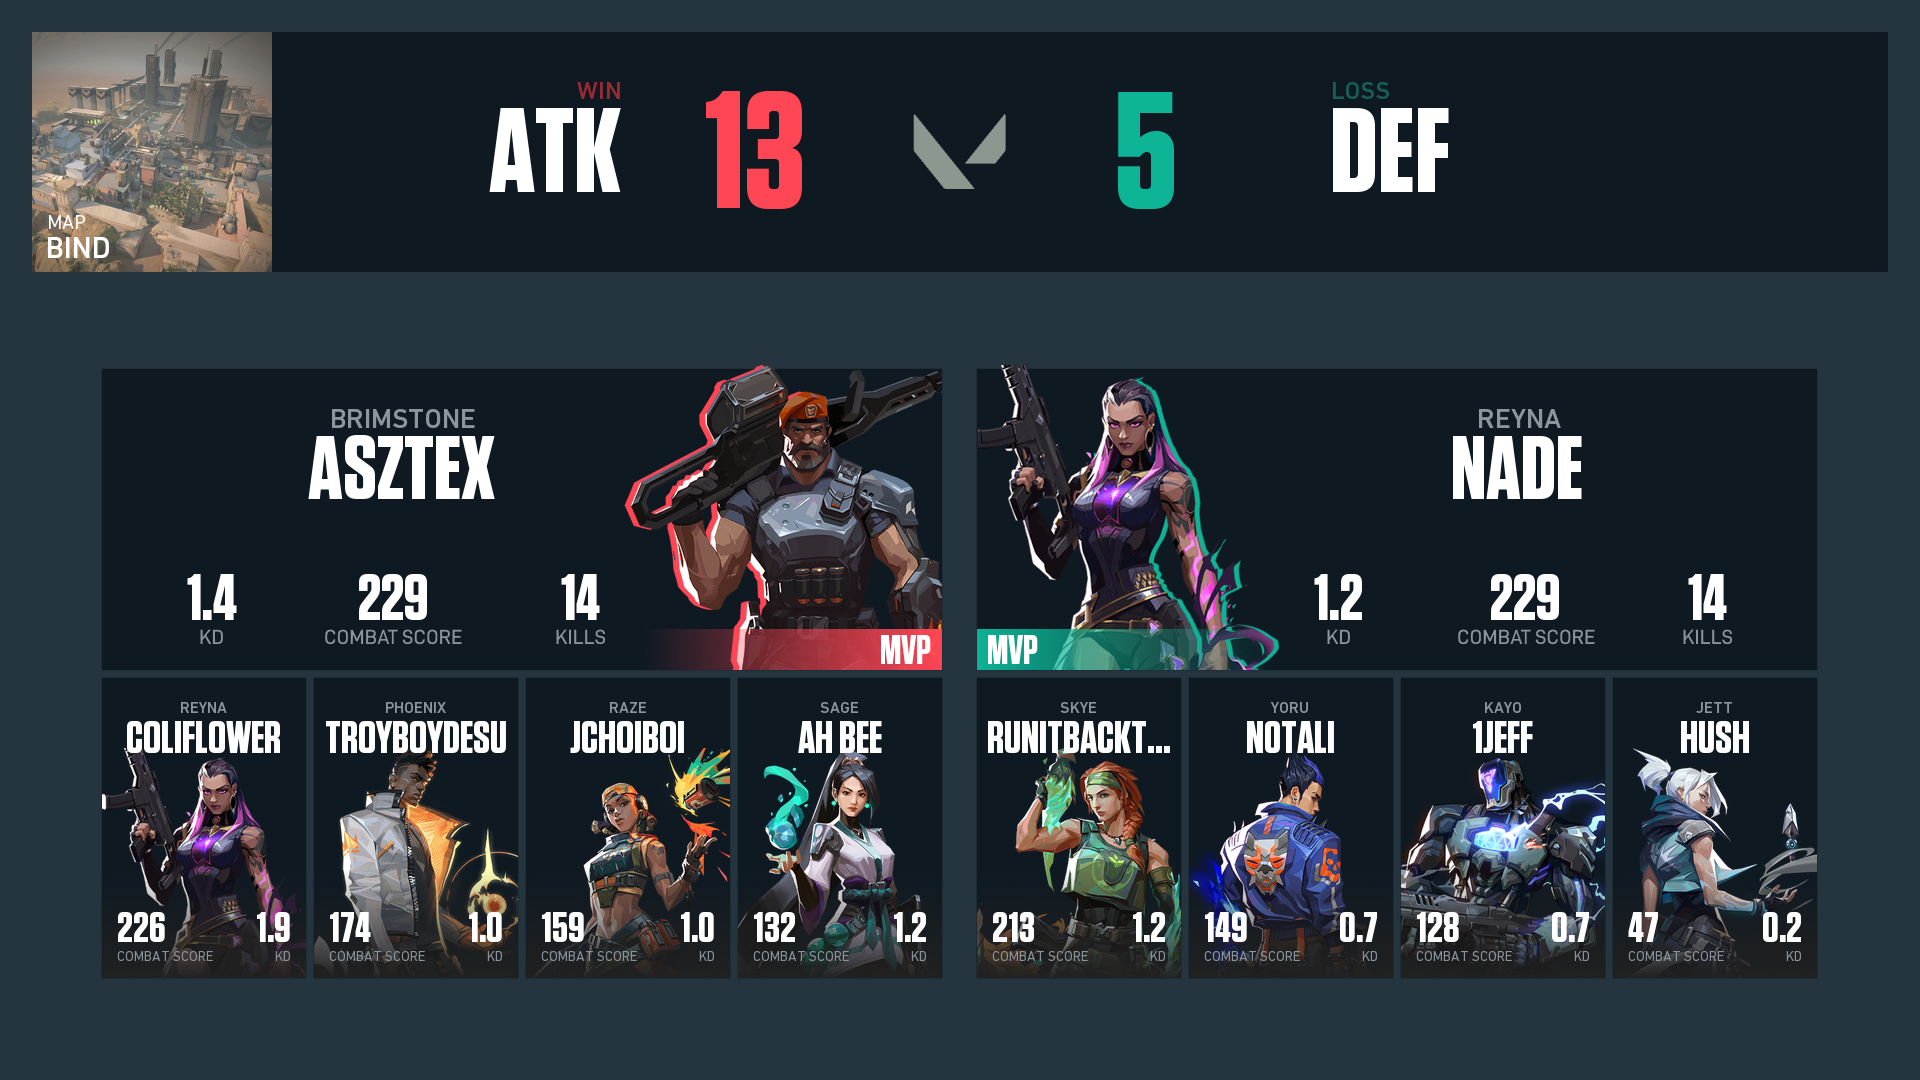
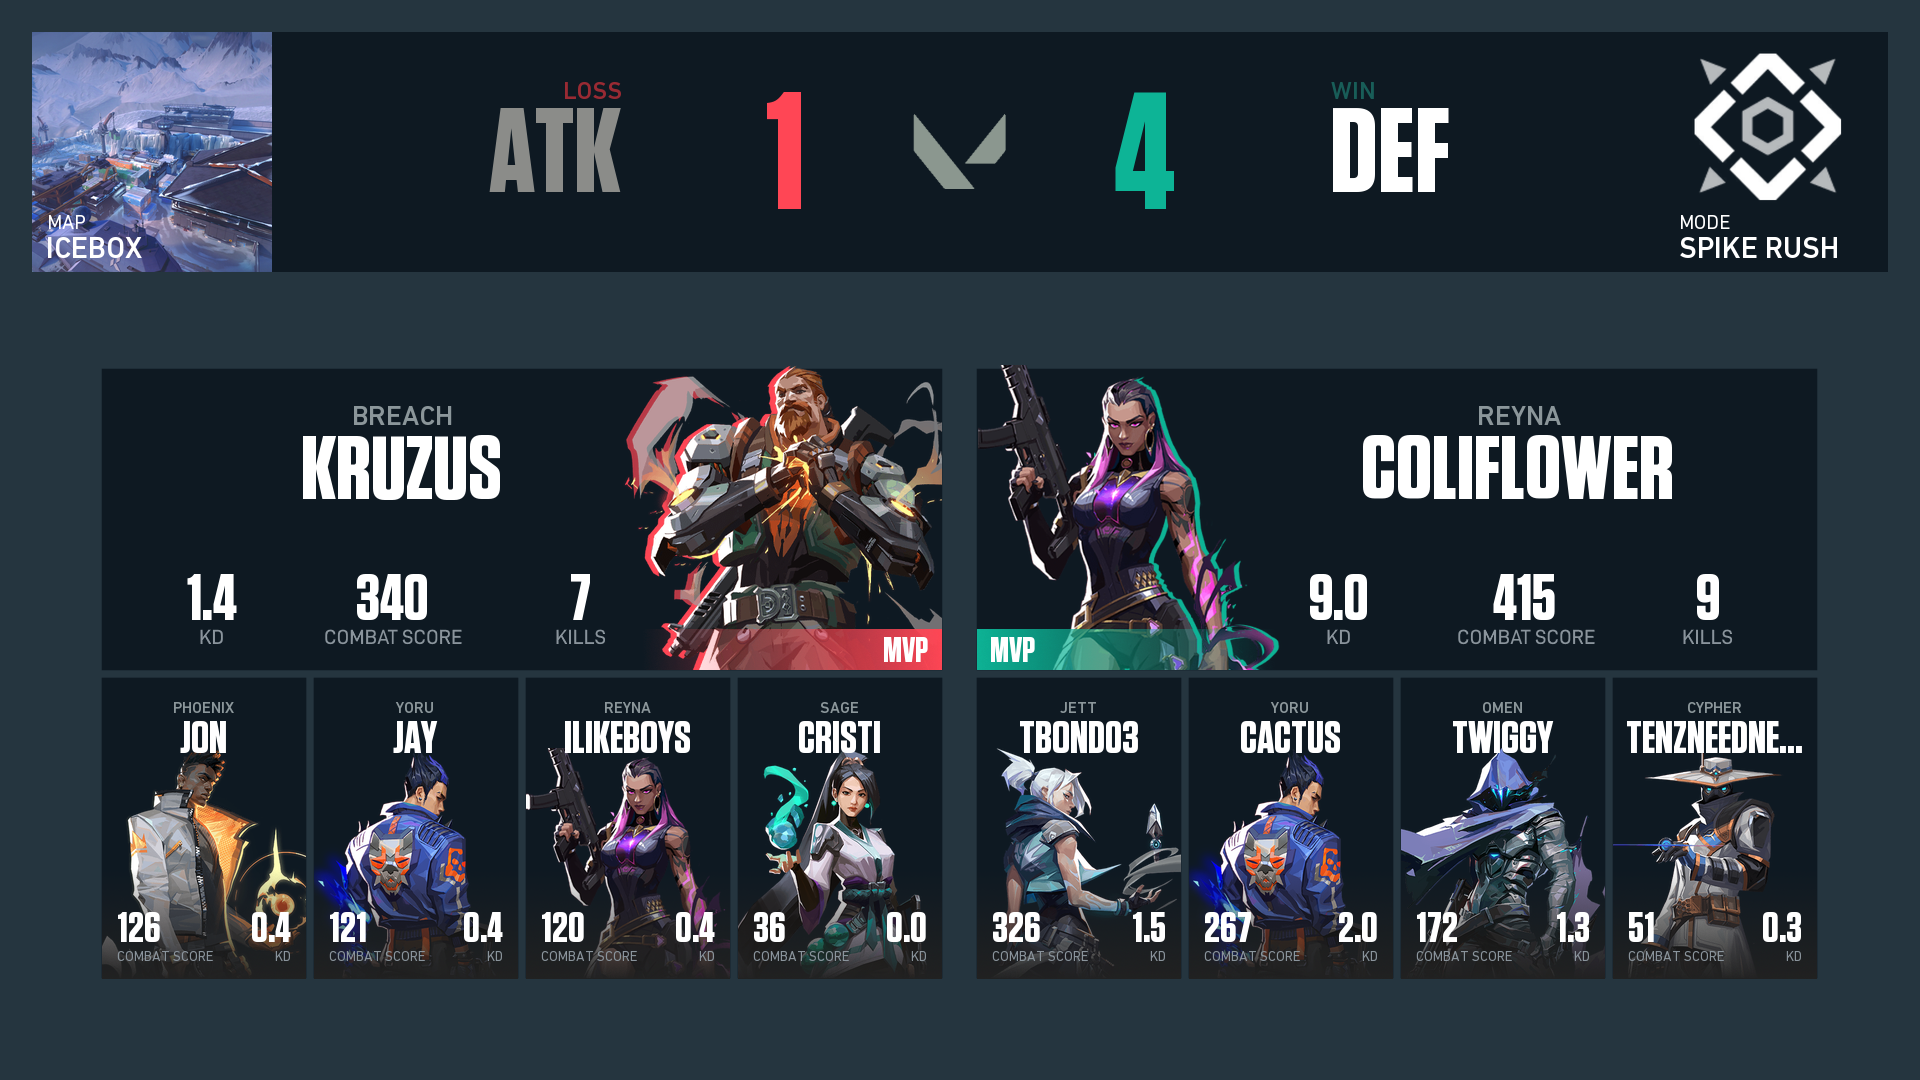
refactored things

diff --git a/src/image_builder.py b/src/image_builder.py
@@ -1,5 +1,7 @@
 import os
-from PIL import Image, ImageFont, ImageDraw
+
+from PIL import Image, ImageDraw, ImageFont
+
 
 class Builder:
 
@@ -21,7 +23,7 @@ class Builder:
         "tungsten": {
             "mvp_player": ImageFont.truetype(os.path.join(cur_path,"data/fonts/Tungsten-Bold.ttf"), 90),
             "mvp_stats": ImageFont.truetype(os.path.join(cur_path,"data/fonts/Tungsten-Bold.ttf"), 65),
-            "mvp_label": ImageFont.truetype(os.path.join(cur_path,"data/fonts/Tungsten-Bold.ttf"), 40),
+            "mvp_label": ImageFont.truetype(os.path.join(cur_path,"data/fonts/Tungsten-Bold.ttf"), 35),
             "header_scores": ImageFont.truetype(os.path.join(cur_path,"data/fonts/Tungsten-Bold.ttf"), 165),
             "header_team_name": ImageFont.truetype(os.path.join(cur_path,"data/fonts/Tungsten-Bold.ttf"), 120),
             "player_name": ImageFont.truetype(os.path.join(cur_path,"data/fonts/Tungsten-Bold.ttf"), 45),
@@ -45,7 +47,7 @@ class Builder:
             "text": 212,
             "images": 212,
             "team": 239,
-        }
+        },
     }
 
     def __init__(self, game_data):
@@ -70,18 +72,41 @@ class Builder:
                         "font": Builder.fonts["ddin"]["map_text"],
                         "var_name": lambda *x: self.game_data["match_map_display_name"],
                         "upper": True,
-                    }
+                    },
+
+                    "mode_name": {
+                        "anchor": (1679,236),
+                        "dimensions": (164,21), 
+                        "color": (255,255,255),
+                        "font": Builder.fonts["ddin"]["map_text"],
+                        "var_name": lambda *x: self.game_data["match_mode_display_name"],
+                        "upper": True,
+                        "justify": "l",
+                    },
+                    "mode_label": {
+                        "anchor": (1679,215),
+                        "dimensions": (64,14), 
+                        "color": (255,255,255),
+                        "font": Builder.fonts["ddin"]["map_label"],
+                        "text": "MODE",
+                        "upper": True,
+                        "justify": "l",
+                    },
+
                 },
                 "images": {
                     "map": {
                         "anchor": (32,32),
                         "dimensions": (240,240),
+                        "crop": lambda *x: ((426-240)//2, 0, (426-240)//2 + 240, 240),
                         "file_path": "data/maps/map_{map}.png", 
                     },
-                    "event_image": {
+                    "mode": {
                         "anchor": (1648,32),
-                        "dimensions": (240,240),
-                        "file_path": "data/misc_assets/event_img.png", 
+                        "dimensions": (240,190),
+                        "target_width": 200,
+                        "centered": True,
+                        "file_path": "data/modes/mode_{mode}.png", 
                     }
                 }
             },
@@ -147,7 +172,7 @@ class Builder:
             "mvps": {
                 "text": {
                     "agent_name": {
-                        "anchor": (255,401),
+                        "anchor": (255,398),
                         "dimensions": (296, 33), 
                         "color": (139,150,154),
                         "font": Builder.fonts["ddin"]["mvp_agent"],
@@ -198,16 +223,22 @@ class Builder:
                     }
                 },
                 "images": {
+                    "agent_silhouette": {
+                        "anchor": (610,365),
+                        "dimensions": (332,305), 
+                        "crop": lambda *x: (0,0,x[1][0]*(2/3),x[1][1]) if x[0] else (x[1][0]*(1/3),0,x[1][0],x[1][1]),
+                    },
                     "agent": {
                         "anchor": (610,365),
                         "dimensions": (332,305), 
                         "target_width": 400,
-                        "filename": "agent_{agent}.png"
+                        "crop": lambda *x: (0,0,x[1][0],x[1][1]) if x[0] else (x[2]-x[1][0],0,x[2],x[1][1]),
+                        "file_path": "data/agents/agent_{agent}.png"
                     },
                     "mvp_gradient": {
                         "anchor": (642,629),
                         "dimensions": (300,41),
-                        "filename": "mvp_gradient_{side}.png" 
+                        "file_path": "data/misc_assets/mvp_gradient_{side}.png" 
                     }
                 }
             },
@@ -270,13 +301,15 @@ class Builder:
                     "agent": {
                         "anchor": (57,748),
                         "dimensions": (294,230), 
-                        "target_width": 204,
-                        "filename": "agent_{agent}.png"
+                        "slot_width": 204,
+                        "crop": lambda *x: (abs(57-(x[0]//2)),0,57+(x[1][0]-(x[0]//2)),x[1][1]),
+                        "file_path": "data/agents/agent_{agent}.png"
                     },
                     "player_gradient": {
                         "anchor": (102,868),
                         "dimensions": (204,111), 
-                        "filename": "player_gradient.png"
+                        "crop": lambda *x: (0,0,x[0][0]+x[1][0],x[1][1]),
+                        "file_path": "data/misc_assets/player_gradient.png"
                     }
                 },
             }
@@ -295,6 +328,7 @@ class Builder:
             self.__draw_text(score_label,int(team_id))
 
             team_name_label = refs["text"][f"team_{team_name}_name"]
+            team_name_label["color"] = (139,140,137) if not team["won_bool"] else team_name_label["color"]
             self.__draw_text(team_name_label,int(team_id))
 
             team_wl_label = refs["text"][f"team_{team_name}_wl"]
@@ -304,23 +338,13 @@ class Builder:
     def draw_header(self):
         refs = self.image_ref_points["header"]
         for img_type, image in refs["images"].items():
-            new_img = Image.open(os.path.join(Builder.cur_path,*image["file_path"].format(map=self.game_data['match_map_display_name'].lower()).split("/"))).convert("RGBA")
-            width, height = new_img.size
-            ratio = width/height
-            new_height = image["dimensions"][1]
-            new_width = int(ratio * new_height)
-            new_img = new_img.resize((new_width,new_height),Image.ANTIALIAS)
-
-            if img_type == "map":
-                diff = (426-240)    
-                crop_bounds = (diff//2, 0, diff//2 + 240, 240)
-                new_img = new_img.crop(crop_bounds)
-
-            self.img.paste(new_img, image["anchor"], new_img)
+            new_img = Image.open(os.path.join(Builder.cur_path,*image["file_path"].format(map=self.game_data['match_map_display_name'].lower(),mode=self.game_data['match_mode'].lower()).split("/"))).convert("RGBA")
+            self.__draw_image(image,new_img)
 
 
         for label_type,label in refs["text"].items():
             self.__draw_text(label)
+
 
     def draw_players(self):
         player_refs = self.image_ref_points["players"]
@@ -360,42 +384,28 @@ class Builder:
                     for img_type,image in mvp_refs["images"].items():
                         new_img = None
                         if img_type == "agent": 
-                            new_img = Image.open(os.path.join(Builder.cur_path,*f"data/agents/{image['filename'].format(agent=player['agent_display_name'])}".split("/"))).convert("RGBA")
+                            new_img = Image.open(os.path.join(Builder.cur_path,*image["file_path"].format(agent=player['agent_display_name']).split("/"))).convert("RGBA")
+                            crop_v = (True,image["dimensions"]) if team_id == 0 else (False,image["dimensions"],image["target_width"])
+                            agent_image, anchor = self.__draw_image(image,new_img,size_axis="x",crop_vars=crop_v,no_draw=True)
+                        
+                            # draw agent silhouette
+                            agent_silhouette = mvp_refs["images"]["agent_silhouette"]
+                            offset = 6
+                            alpha = agent_image.getchannel('A')
+                            silhouette = Image.new('RGBA', agent_image.size, color=(255,70,85,255) if team_id == 0 else (13,180,150,255))
+                            silhouette.putalpha(alpha) 
+
+                            s_crop_v = (True,image["dimensions"]) if team_id == 0 else (False,image["dimensions"])
+                            anchor_o = (image["anchor"][0]-offset,image["anchor"][1]) if team_id == 0 else (int(image["anchor"][0]+(image["dimensions"][0]*(1/3)))+offset,image["anchor"][1])
+                            self.__draw_image(agent_silhouette,silhouette,size_axis="x",crop_vars=s_crop_v,anchor_override=anchor_o)
+
+                            self.__draw_prepared_image(agent_image,anchor)
+
+
                         elif img_type == "mvp_gradient":
-                            new_img = Image.open(os.path.join(Builder.cur_path,*f"data/misc_assets/{image['filename'].format(side=team_id)}".split("/"))).convert("RGBA")
-
-
-                        if new_img is not None:
-                            if image.get("target_width"):
-                                width, height = new_img.size
-                                ratio = height/width
-                                new_width = image["target_width"]
-                                new_height = int(ratio * new_width)
-                                new_img = new_img.resize((new_width,new_height),Image.ANTIALIAS)
-
-                                if team_id == 0:
-                                    crop_bounds = (0,0,image["dimensions"][0],image["dimensions"][1])
-                                else:
-                                    crop_bounds = (new_width-image["dimensions"][0],0,new_width,image["dimensions"][1])
-                                new_img = new_img.crop(crop_bounds)
-
-                            if img_type == "agent":
-                                offset = 6
-                                alpha = new_img.getchannel('A')
-                                silhouette = Image.new('RGBA', new_img.size, color=(255,70,85,255) if team_id == 0 else (13,180,150,255))
-                                silhouette.putalpha(alpha) 
-
-                                if team_id == 0:
-                                    crop_bounds = (0,0,image["dimensions"][0]*(2/3),image["dimensions"][1])
-                                    silhouette = silhouette.crop(crop_bounds)
-                                    self.img.paste(silhouette,(image["anchor"][0]-offset,image["anchor"][1]),silhouette)
-                                else:
-                                    crop_bounds = (image["dimensions"][0]*(1/3),0,image["dimensions"][0],image["dimensions"][1])
-                                    silhouette = silhouette.crop(crop_bounds)
-                                    self.img.paste(silhouette,(int(image["anchor"][0]+image["dimensions"][0]*(1/3))+offset,image["anchor"][1]),silhouette)
-
-                            self.img.paste(new_img,image["anchor"],new_img)
-                            
+                            new_img = Image.open(os.path.join(Builder.cur_path,*image['file_path'].format(side=team_id).split("/"))).convert("RGBA")
+                            self.__draw_image(image,new_img)
+                           
 
                     # load text
                     for label_type,label in mvp_refs["text"].items():
@@ -417,35 +427,15 @@ class Builder:
                     for img_type,image in player_refs["images"].items():
                         new_img = None
                         if img_type == "agent": 
-                            new_img = Image.open(os.path.join(Builder.cur_path,*f"data/agents/{image['filename'].format(agent=player['agent_display_name'])}".split("/"))).convert("RGBA")
+                            new_img = Image.open(os.path.join(Builder.cur_path,*image["file_path"].format(agent=player['agent_display_name']).split("/"))).convert("RGBA")
+                            self.__draw_image(image,new_img,size_axis="x",crop_vars=(image["slot_width"],image["dimensions"]),anchor_override=(image["anchor"][0]+45,image["anchor"][1]))
                         elif img_type == "player_gradient":
-                            new_img = Image.open(os.path.join(Builder.cur_path,*f"data/misc_assets/{image['filename']}".split("/"))).convert("RGBA")
-
-                        if new_img is not None:
-                            width, height = new_img.size
-                            ratio = height/width
-                            new_width = image["dimensions"][0]
-                            new_height = int(ratio * new_width)
-                            new_img = new_img.resize((new_width,new_height),Image.ANTIALIAS)
-
-                            if image.get("target_width"):
-                                crop_bounds = (abs(57-(image["target_width"]//2)),0,57+(new_width-(image["target_width"]//2)),image["dimensions"][1])
-                                new_img = new_img.crop(crop_bounds)
-                                self.img.paste(new_img,(image["anchor"][0]+45,image["anchor"][1]),new_img)
-                            
-                            else:
-                                crop_bounds = (0,0,image["anchor"][0]+image["dimensions"][0],image["dimensions"][1])
-                                new_img = new_img.crop(crop_bounds)
-                                self.img.paste(new_img,image["anchor"],new_img)
-
-                            
-                         
-                
+                            new_img = Image.open(os.path.join(Builder.cur_path,*image["file_path"].split("/"))).convert("RGBA")
+                            self.__draw_image(image,new_img,crop_vars=(image["anchor"],image["dimensions"]))                   
 
 
                     for label_type,label in player_refs["text"].items():
                         self.__draw_text(label,int(team_id),int(position))
-
 
 
     def build_image(self):
@@ -457,6 +447,47 @@ class Builder:
 
 
         self.img.save("output.png")
+        
+
+    def __draw_image(self,img_data,new_img,size_axis="y",crop_vars=(),anchor_override=None,no_draw=False):
+        width, height = new_img.size
+        ratio = width/height if size_axis == "y" else height/width
+        new_height = 0
+        new_width = 0
+
+        if img_data.get("target_width"):
+            new_width = img_data["target_width"]
+            new_height = int(ratio * new_width)
+        else:
+            if size_axis == "y":
+                new_height = img_data["dimensions"][1]
+                new_width = int(ratio * new_height)
+            elif size_axis == "x":
+                new_width = img_data["dimensions"][0]
+                new_height = int(ratio * new_width)
+        
+        new_img = new_img.resize((new_width,new_height),Image.ANTIALIAS)
+
+        crop_bounds = None
+        if img_data.get("crop"):
+            crop_bounds = img_data["crop"](*crop_vars)
+            new_img = new_img.crop(crop_bounds)
+
+        anchor = img_data["anchor"]
+        if anchor_override is not None:
+            anchor = anchor_override
+        if img_data.get("centered"):
+            anchor = (anchor[0]-new_width//2,anchor[1]-new_height//2)
+            anchor = ((img_data["dimensions"][0]//2)+anchor[0],(img_data["dimensions"][1]//2)+anchor[1])
+            print(anchor)
+
+        if not no_draw:
+            self.img.paste(new_img, anchor, new_img)
+        return new_img, anchor
+
+    def __draw_prepared_image(self,new_img,anchor):
+        self.img.paste(new_img,anchor,new_img)
+
 
 
     def __draw_text(self,label,*var):

diff --git a/src/valorant_manager.py b/src/valorant_manager.py
@@ -24,11 +24,14 @@ class Valorant:
         payload = {
             "match_id": match_data["matchInfo"]["matchId"],
             "match_map": match_data["matchInfo"]["mapId"],
+            "match_mode": match_data["matchInfo"]["queueID"],
+            "match_mode_display_name": content["queue_aliases"][match_data["matchInfo"]["queueID"]],
             "match_map_display_name": [gmap for gmap in content["maps"] if match_data["matchInfo"]["mapId"] in gmap["path"]][0]["display_name"],
             "teams": [
                 {
                     "team_name": team["teamId"],
                     "team_alias": "ATK" if team["teamId"] == "Red" else "DEF",
+                    "won_bool": team["won"],
                     "won": "WIN" if team["won"] else "LOSS",
                     "rounds_won": team["roundsWon"],
                 } for team in match_data["teams"]
